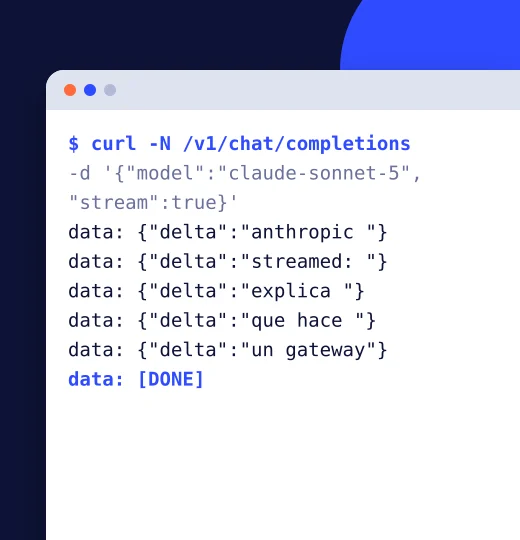
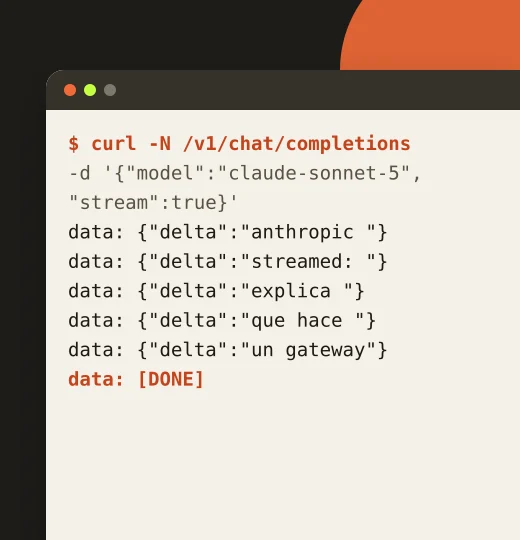
feat(site): back to the warm palette, smaller project preview

diff --git a/src/styles/global.css b/src/styles/global.css
@@ -7,64 +7,63 @@
 --------------------------------------------------------------------------- */
 
 :root {
-  /* Ink, cobalt and a warm signal colour that only ever means "drift". */
-  --c-bg: #0d1236;
-  --c-bg-soft: #10163f;
-  --c-surface: #151c4c;
-  --c-surface-2: #1b2358;
-  --c-line: #29316a;
-  --c-line-soft: #1f275c;
-  --c-text: #eef0fa;
-  --c-dim: #b3b9d6;
-  --c-mute: #8088ad;
-  --c-accent: #8193ff;
-  --c-accent-ink: #0d1236;
-  --c-accent-soft: rgba(129, 147, 255, 0.14);
-  --c-glow: rgba(47, 75, 255, 0.35);
-  --c-ghost: rgba(169, 176, 214, 0.2);
-  --c-cobalt: #2f4bff;
-  --c-signal: #ff6a3d;
+  --c-bg: #141210;
+  --c-bg-soft: #191714;
+  --c-surface: #1e1c19;
+  --c-surface-2: #262320;
+  --c-line: #34312c;
+  --c-line-soft: #292622;
+  --c-text: #f4f0e9;
+  --c-dim: #b0aa9f;
+  --c-mute: #7d776c;
+  --c-accent: #f26a37;
+  --c-accent-ink: #14110d;
+  --c-accent-soft: rgba(242, 106, 55, 0.15);
+  --c-glow: rgba(242, 106, 55, 0.26);
+  --c-ghost: rgba(182, 180, 189, 0.2);
   --c-card: #ffffff;
-  --c-card-ink: #0d1236;
-  --c-card-dim: #4a5179;
-  --c-card-line: #dfe3ef;
-  --c-card-accent: #2f4bff;
+  --c-card-ink: #1d1a14;
+  --c-card-dim: #5a5242;
+  --c-card-line: #e3d9c6;
+  --c-card-accent: #c4431b;
 
-  --shadow-card: 0 1px 0 rgba(255, 255, 255, 0.04) inset,
-    0 30px 70px -30px rgba(3, 6, 30, 0.9);
+  --shadow-card: 0 1px 0 rgba(255, 255, 255, 0.03) inset,
+    0 24px 60px -30px rgba(0, 0, 0, 0.9);
+
+  --c-signal: #f26a37;
 
   color-scheme: dark;
 }
 
 /*
- * Light is a cool paper with the same ink and cobalt, so the two themes read
- * as one identity with the lights on or off.
+ * Light is cream, not screen white: warm enough to sit with the terracotta
+ * accent, light enough to read a full screen of it.
  */
 :root[data-theme="light"] {
-  --c-bg: #eef0f6;
-  --c-bg-soft: #e5e8f1;
-  --c-surface: #ffffff;
-  --c-surface-2: #e6e9f2;
-  --c-line: #d3d8e7;
-  --c-line-soft: #e0e4ef;
-  --c-text: #0d1236;
-  --c-dim: #3d4470;
-  --c-mute: #69709a;
-  --c-accent: #2f4bff;
+  --c-bg: #f5efe4;
+  --c-bg-soft: #ece4d4;
+  --c-surface: #fffaf0;
+  --c-surface-2: #f0e8d8;
+  --c-line: #dccfb8;
+  --c-line-soft: #e8dcc7;
+  --c-text: #1d1a14;
+  --c-dim: #5a5242;
+  --c-mute: #8a806b;
+  --c-accent: #c4431b;
   --c-accent-ink: #ffffff;
-  --c-accent-soft: rgba(47, 75, 255, 0.09);
-  --c-glow: rgba(47, 75, 255, 0.14);
-  --c-ghost: #cdd2e3;
-  --c-cobalt: #2f4bff;
-  --c-signal: #f2541f;
+  --c-accent-soft: rgba(196, 67, 27, 0.1);
+  --c-glow: rgba(196, 67, 27, 0.16);
+  --c-ghost: #d9ceb8;
   --c-card: #ffffff;
-  --c-card-ink: #0d1236;
-  --c-card-dim: #4a5179;
-  --c-card-line: #dfe3ef;
-  --c-card-accent: #2f4bff;
+  --c-card-ink: #1d1a14;
+  --c-card-dim: #5a5242;
+  --c-card-line: #dccfb8;
+  --c-card-accent: #c4431b;
 
   --shadow-card: 0 1px 0 rgba(255, 255, 255, 0.7) inset,
-    0 24px 50px -28px rgba(13, 18, 54, 0.35);
+    0 18px 38px -26px rgba(60, 44, 20, 0.35);
+
+  --c-signal: #c4431b;
 
   color-scheme: light;
 }
@@ -479,9 +478,9 @@
   left: 0;
   top: 0;
   z-index: 40;
-  width: 300px;
-  height: 312px;
-  border-radius: 14px;
+  width: 190px;
+  height: 198px;
+  border-radius: 12px;
   overflow: hidden;
   pointer-events: none;
   opacity: 0;
